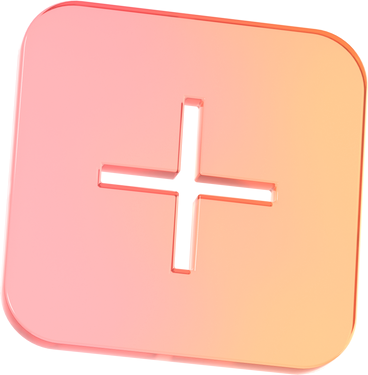
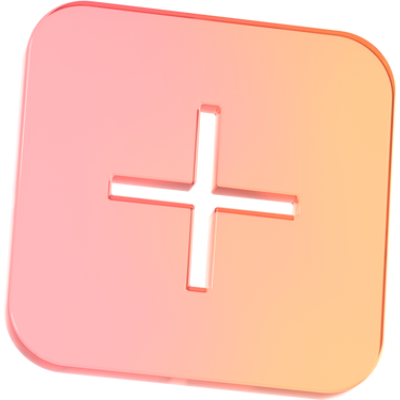
minor improvement
- images
- layout col-xs/xl

diff --git a/about.html b/about.html
@@ -138,10 +138,10 @@
               <div class="col-md-12">
                 <div class="info-box bg-light rounded-4">
                   <div class="row gy-2">
-                    <div class="col-4">
+                    <div class="col-xl-3 col-xs-12">
                       <img src="assets/img/strategy.png" alt="strategy">
                     </div>
-                    <div class="col-8 align-top">
+                    <div class="col-9 align-top">
                       <h3>System thinking</h3>
                       <p>Working on design system to improve efficiency and durability of different platforms.</p>
                     </div> 

diff --git a/custom.css b/custom.css
@@ -421,7 +421,7 @@ padding: 20px;
 }
 
 .info-box img {
-  height: 80px;
+  height: 90px;
 }
 
 
